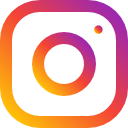
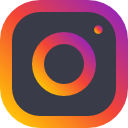
adds social media buttons and secondary color

diff --git a/public/css/theme.css b/public/css/theme.css
@@ -8,9 +8,9 @@
     --theme-verylightblue: #ddf0e6;
 
     --theme-darkgreen: #00bf79; 
-    --theme-green: #6decb9; 
-    --theme-lightgreen: #9cefcd;
-    --theme-washedgreen: #befff0;
+    --theme-green: #aa8976; 
+    --theme-lightgreen: #f0e2d0;
+    --theme-washedgreen: #ad9588;
 
     --theme-yellow: #feffef;
     --theme-borders: #3a3b48;
@@ -66,6 +66,7 @@ p a:hover {
 
 footer a {
     border-bottom: none;
+    color: var(--theme-borders);
 }
 
 footer a:hover {
@@ -80,14 +81,14 @@ footer a:hover {
     font-style: normal;
     font-size: 35px;
     font-weight: 700;
-    color: var(--theme-blue);
+    color: var(--theme-borders);
     transition: border-bottom .6s, border-top .6s, color .6s;
     -webkit-transition: border-bottom .6s, border-top .6s, color .6s;
 }
 
 .link-impact:hover {
-    border-top: 4px solid var(--theme-blue);
-    border-bottom: 4px solid var(--theme-blue);
+    border-top: 4px solid var(--theme-borders);
+    border-bottom: 4px solid var(--theme-borders);
 }
 
 .start-impact { /* On contact page, this element takes place of "Contact Me" link. This is styled the same without a pointer event or link */
@@ -533,10 +534,8 @@ textarea:focus {
 .footer-social button {
     cursor: pointer;
     border-radius: 12px;
-    border-color: var(--theme-blue);
+    border: none;
     background: url(/images/share.png);
-    background-color: var(--theme-lightblue);
-    transition: background-color .3s;
 }
 
 .footer-attributions {
